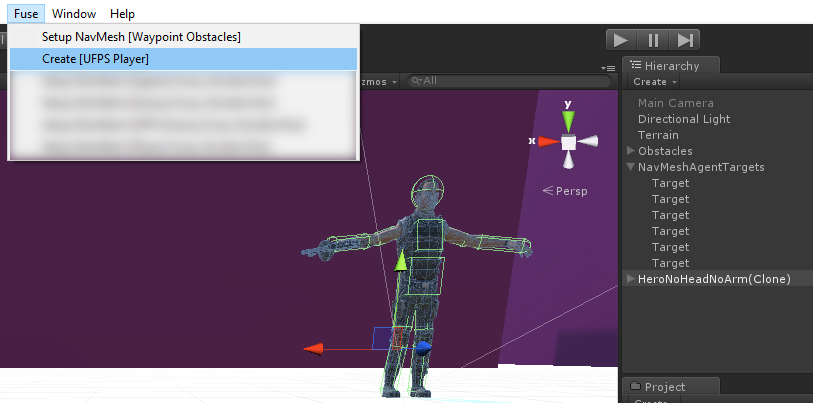
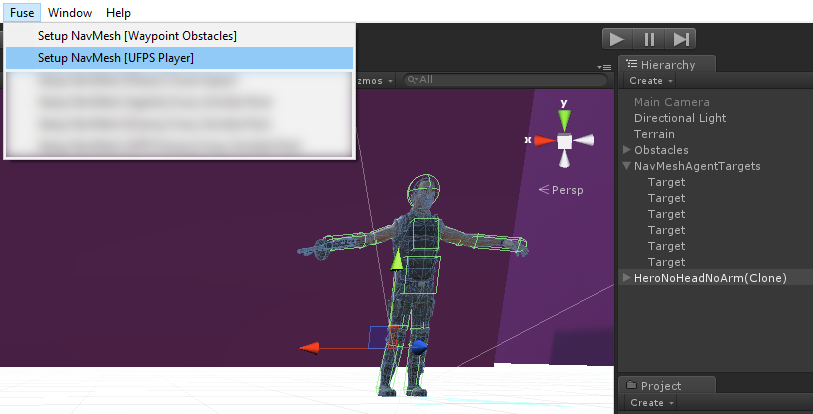
Documenting player setup.

Changed region(s): [[0.0, 0.0, 1.0, 1.0], [0.6765, 0.7444, 0.7073, 0.7742]]

diff --git a/Setup-For-Fuse-CC.md b/Setup-For-Fuse-CC.md
@@ -118,9 +118,14 @@ Terrain provides a floor to walk on. Obstacles are a set of cubes shaped like bu
 
 ![image_5](Setup-For-Fuse-CC/image_5.png)
 
-The menu item `Fuse->Create [UFPS Player]` creates a UFPS player with a `Visual Aspect` for `NavMesh Agents` to sense. The `UFPS` player has a `first-person` controller and is capable of running around the obstacle course. The `UFPS` has the damage handlers, colliders, and a starting inventory already setup.
+The menu item `Fuse->Setup NavMesh [UFPS Player]` is only available when `UFPS` is enabled. The menu item creates a UFPS player with a `Visual Aspect` for `NavMesh Agents` to sense. The `UFPS` player has a `first-person` controller and is capable of running around the obstacle course. The `UFPS` has the damage handlers, colliders, and a starting inventory already setup. Since `UFPS` players have their own cameras, the default `Main Camera` is disabled.
 
 ![image_6](Setup-For-Fuse-CC/image_6.png)
+
+The menu item `Fuse->Setup NavMesh [Player] Visual Aspect` adds a `Visual Aspect` to the player so that `NavMesh Agents` can detect the player. This can be used on `UFPS` players or generically on something like the `Standard Assets` where a `Character Controller` was used. A `Visual Aspect` will work for a `first-person` or `third-person` perspective controller.
+
+![image_7](Setup-For-Fuse-CC/image_7.png)
+
 
 ## RAIN AI for Unity
 
